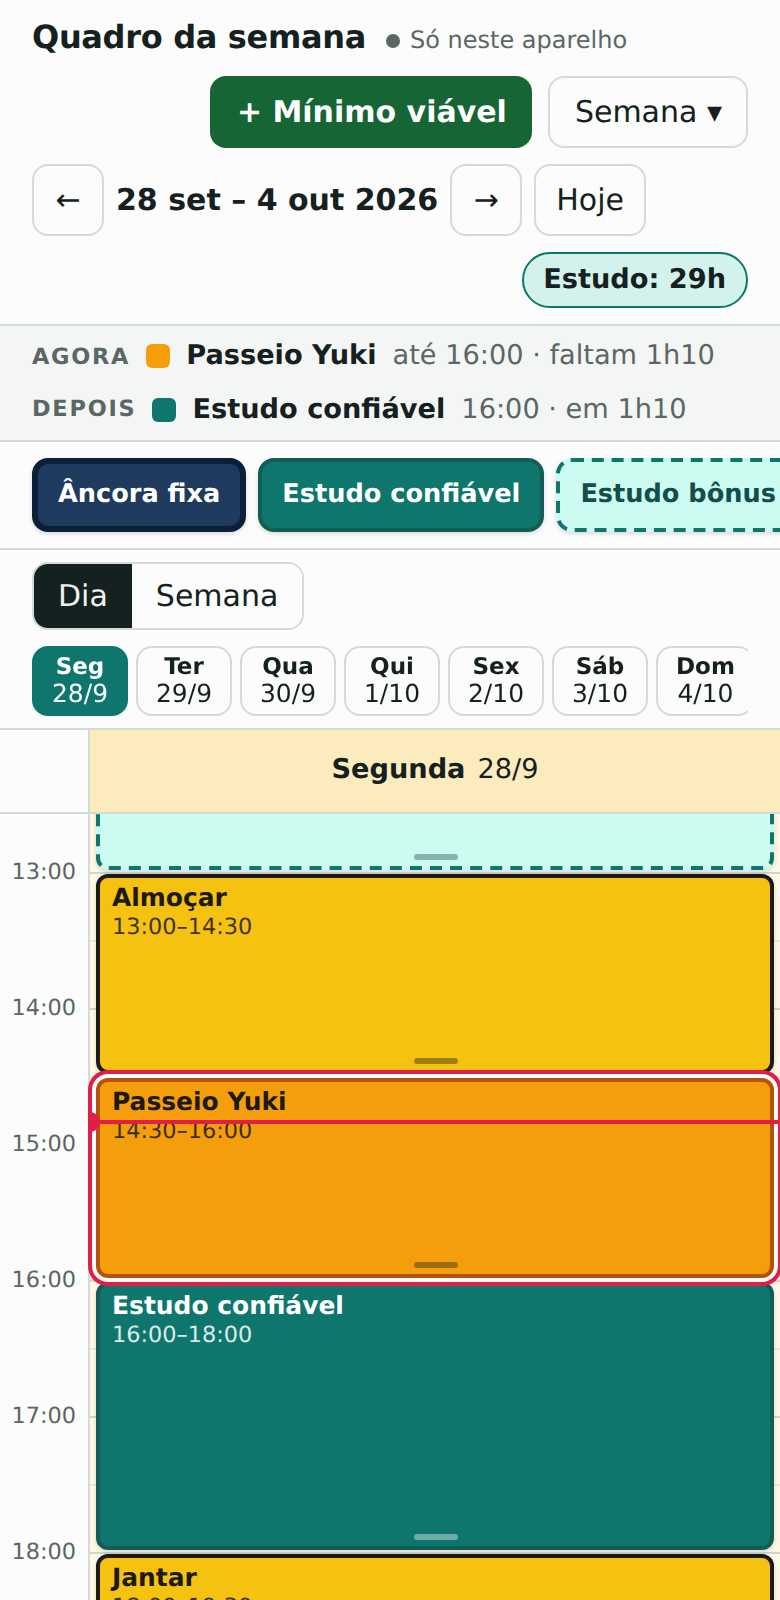
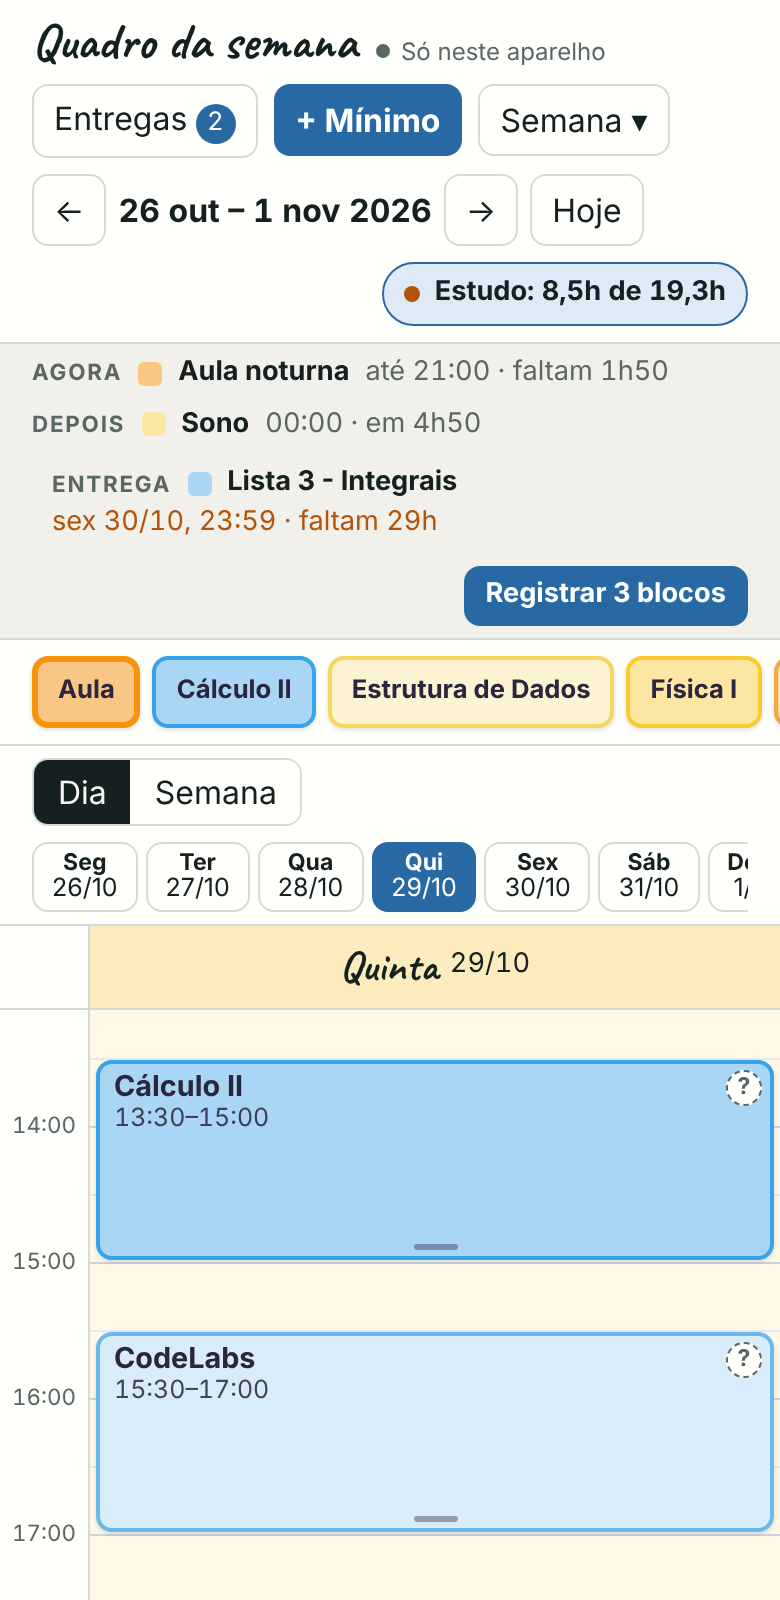
Atualiza as capturas de tela com tracking e entregas
Os prints usam uma semana de exemplo, com matérias genéricas.

Claude-Session: https://claude.ai/code/session_013PaDnjUzqqmdHfjQLjaeE4

diff --git a/README.md b/README.md
@@ -36,6 +36,10 @@ Em `artifact/quadro-da-semana.html` fica a versão que eu uso no dia a dia. Ela 
 - O contador do topo mostra **horas feitas de horas planejadas** na semana
 - O **resumo** mostra quanto do plano foi cumprido por prioridade, as últimas 4 semanas, o rendimento por turno, por dia e por tamanho de bloco, e os motivos mais comuns
 
+<img src="docs/quadro-registro.png" alt="Lista para registrar os blocos que já passaram como feito ou não feito" width="300">
+
+![Resumo do tracking com o plano cumprido por prioridade e as últimas semanas](docs/quadro-resumo.png)
+
 **Entregas**
 - Lista de trabalhos e tarefas com matéria e prazo, separada em atrasadas, próximos 7 dias e mais pra frente
 - **Colar do Moodle**: cole o texto da página de tarefas e as entregas com vencimento são reconhecidas sozinhas
